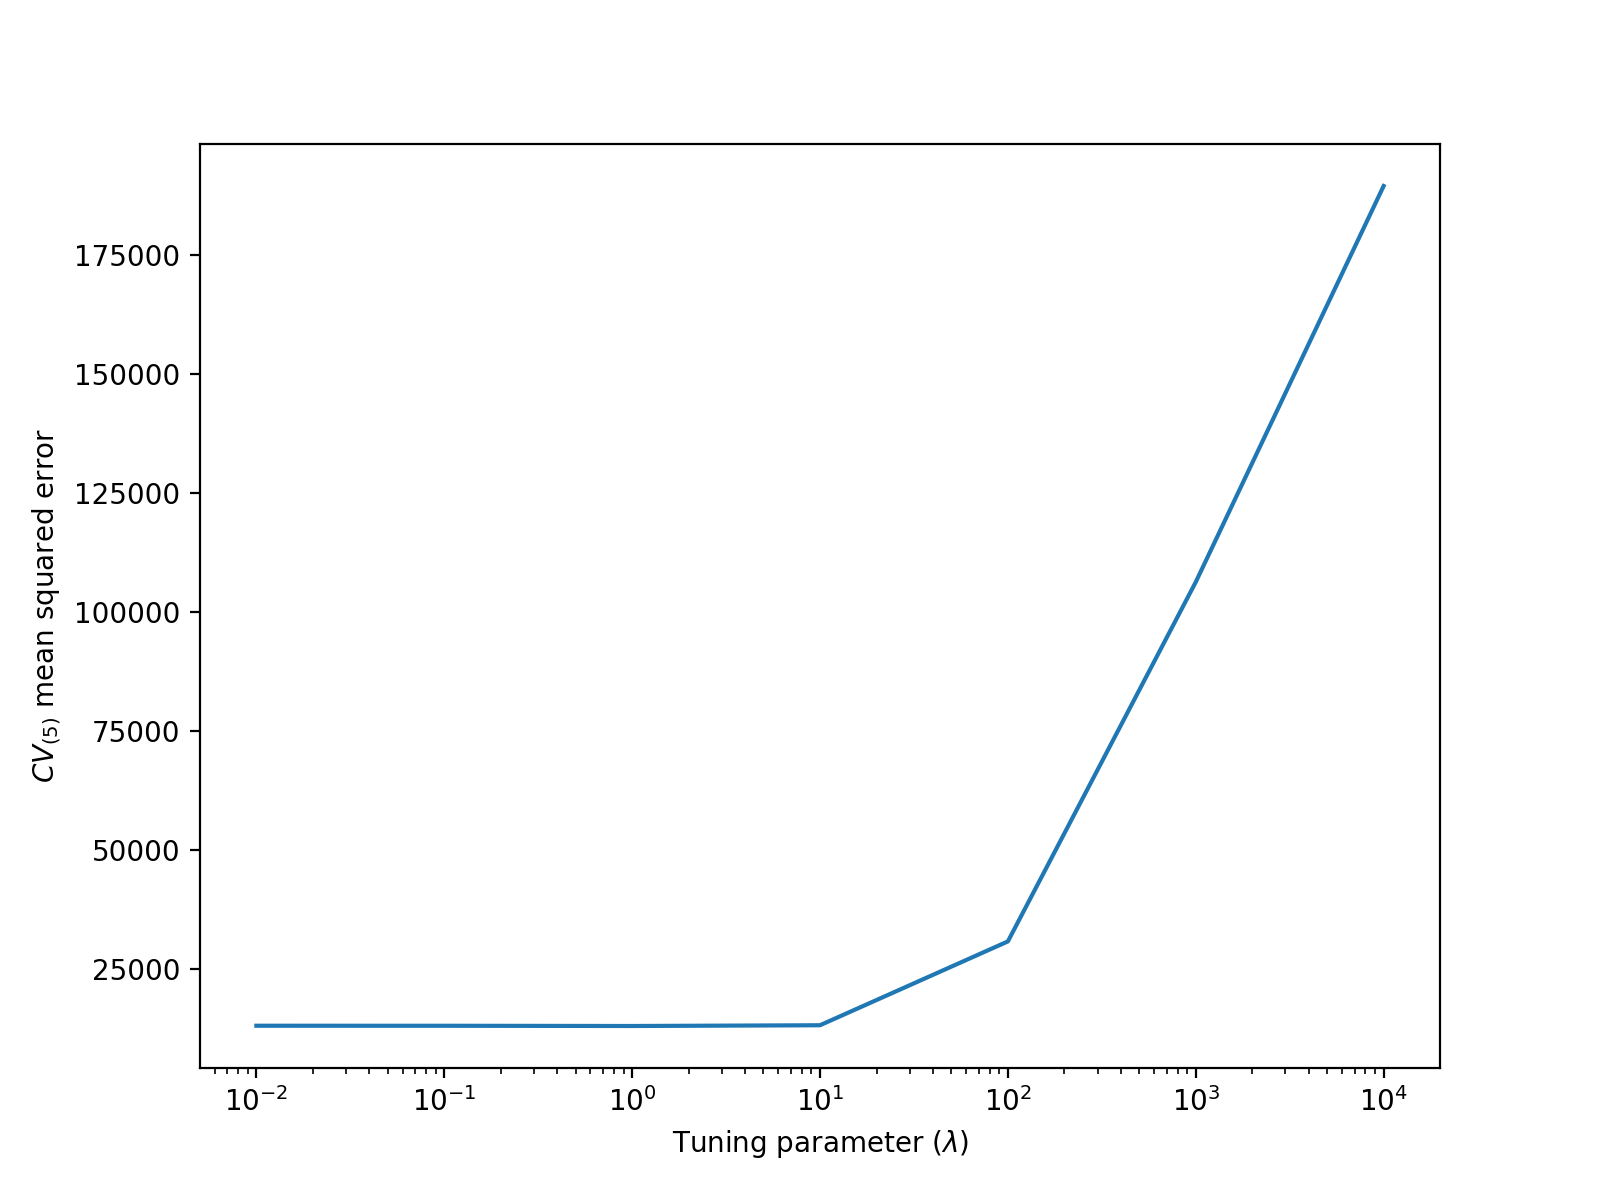
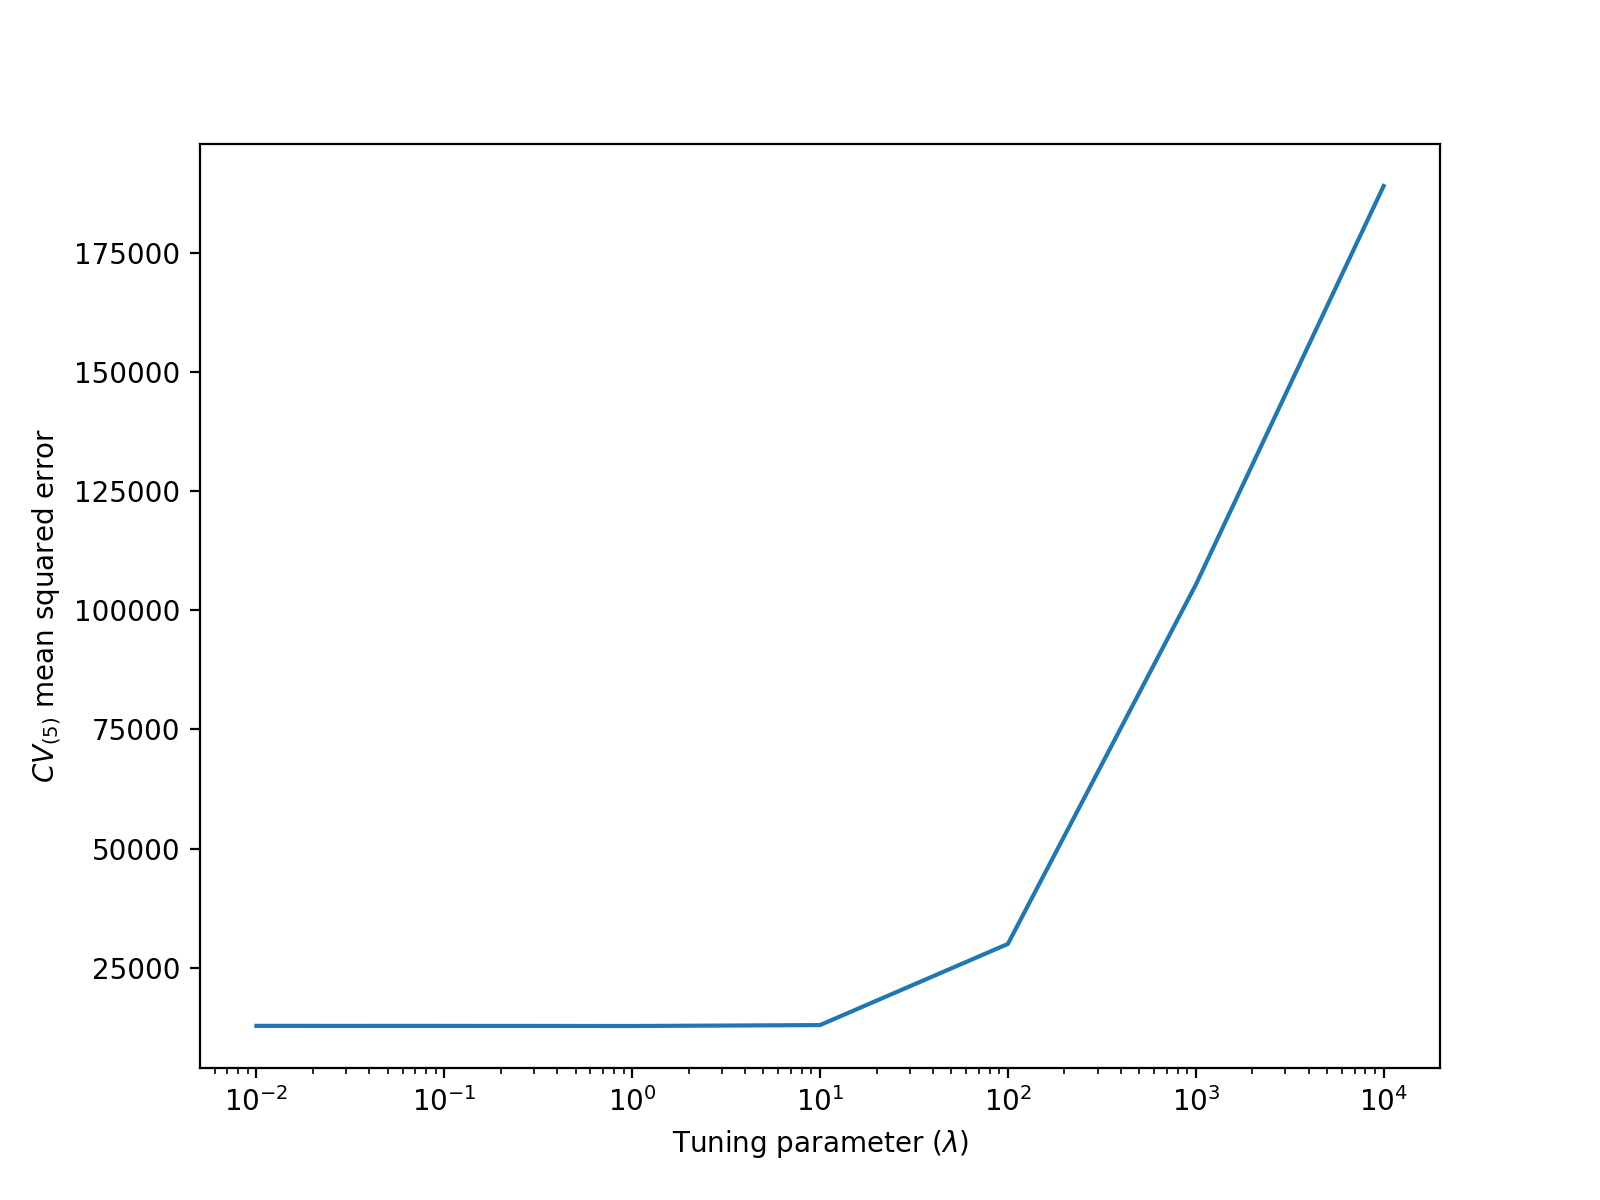
Run it for real

diff --git a/ErenAkgunduz_Assign1.py b/ErenAkgunduz_Assign1.py
@@ -93,7 +93,7 @@ def cross_validation(data, k=5) -> np.ndarray:
 
     data_shuffled = data  # make a copy of the original data
     # shuffle the copy so the data in each fold are randomly determined
-    np.random.seed(0)
+    # np.random.seed(0)
     np.random.shuffle(data_shuffled)
     logger.debug(f"{data_shuffled.shape}\n{data_shuffled}")
 
